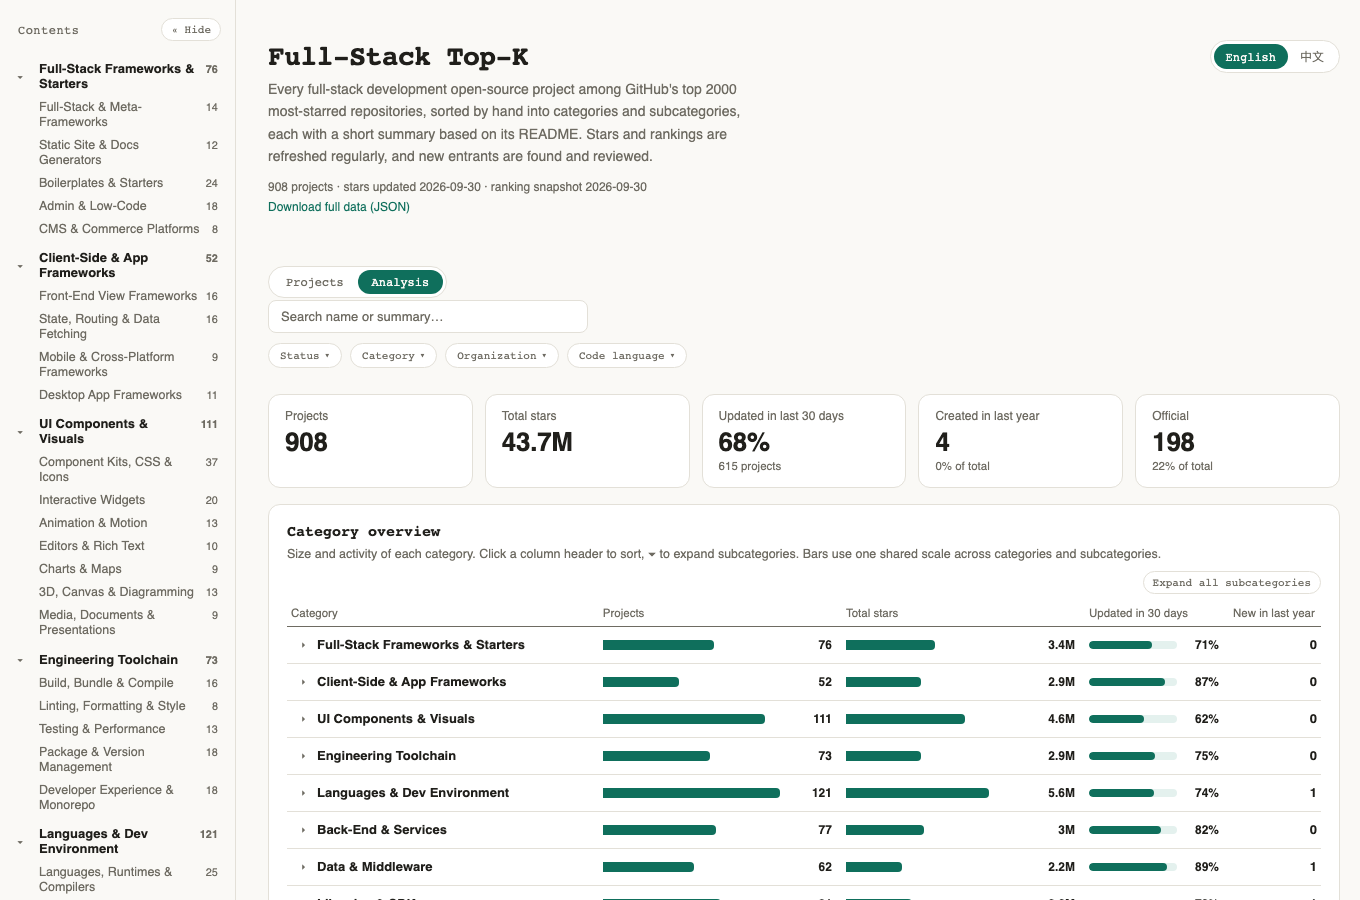
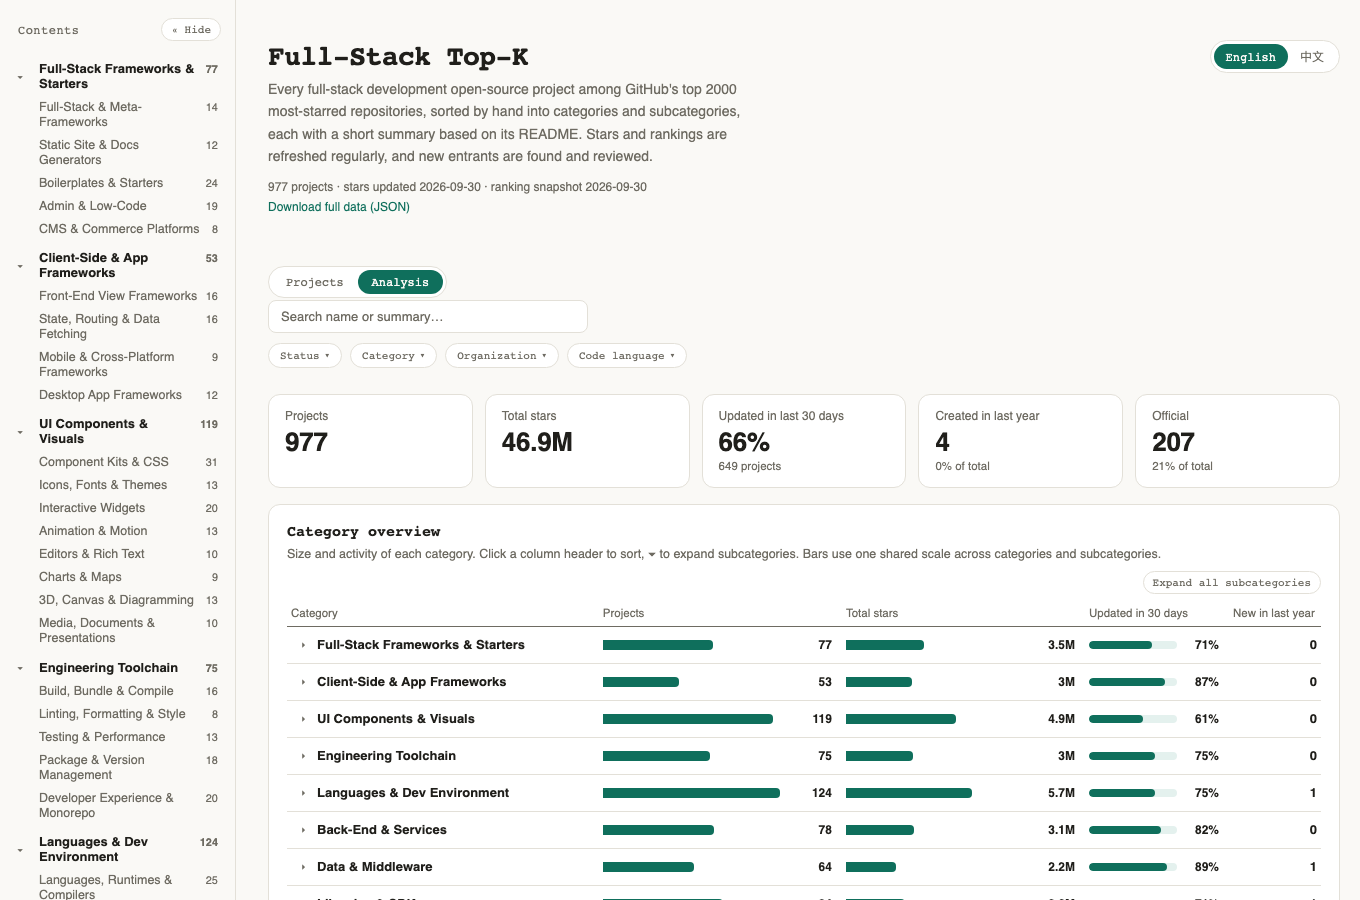
docs: update counts and screenshots for 977 projects and 60 subcategories

diff --git a/.claude/CLAUDE.md b/.claude/CLAUDE.md
@@ -39,7 +39,7 @@ python3 scripts/candidates.py           # 找出待审核的新仓库，写入 d
 
 **拿不准时偏保守，宁可漏收不要错收。**
 
-**分类体系**（2026-09-30 整体重构，共 11 个大类、58 个小类）：`fullstack` 全栈框架与应用骨架、`client` 客户端与应用框架、`ui` 界面组件与视觉、`toolchain` 工程化工具链（项目层面的构建 / 检查 / 测试 / 依赖）、`devtools` 编程语言与开发环境（语言、编辑器、命令行，开发者个人每天直接用的）、`backend` 后端与服务框架、`data` 数据与中间件、`libs` 通用库与 SDK（按语言生态）、`delivery` 部署与运维、`learning` 学习与教程、`guide` 面试、规范与清单。每个小类的边界写在 `taxonomy.json` 的 `def` 里，归类以那里为准。
+**分类体系**（2026-09-30 整体重构，共 11 个大类、60 个小类）：`fullstack` 全栈框架与应用骨架、`client` 客户端与应用框架、`ui` 界面组件与视觉、`toolchain` 工程化工具链（项目层面的构建 / 检查 / 测试 / 依赖）、`devtools` 编程语言与开发环境（语言、编辑器、命令行，开发者个人每天直接用的）、`backend` 后端与服务框架、`data` 数据与中间件、`libs` 通用库与 SDK（按语言生态）、`delivery` 部署与运维、`learning` 学习与教程、`guide` 面试、规范与清单。每个小类的边界写在 `taxonomy.json` 的 `def` 里，归类以那里为准。
 
 **分类体系不是定死的**：收录完成后，按实际项目的分布调整 `taxonomy.json`（合并过小的类、拆分过大的类、补上遗漏的类），并同步更新引用旧 key 的项目。调整时看整体分布，不要只给新项目补类；一个小类超过约 40 个就考虑拆，少于约 5 个就考虑并入相邻的类。
 

diff --git a/README.md b/README.md
@@ -15,7 +15,7 @@ Sister project: [AI Top-K](https://github.com/sigangluo/github-ai-topk), the sam
 
 ## What you can do
 
-- **Browse** hundreds of projects grouped into 11 categories and 58 subcategories, with a sidebar table of contents. Every subcategory has a written definition of what belongs in it.
+- **Browse** hundreds of projects grouped into 11 categories and 60 subcategories, with a sidebar table of contents. Every subcategory has a written definition of what belongs in it.
 - **See each project's real rank** among all GitHub repositories by stars, plus creation date, last push, main languages, and whether the repo is archived.
 - **Filter** by category tree, organization, code language, official vs community, or activity, and search names and summaries.
 - **Analyze** the landscape: category size and activity, new projects per quarter, language trends by creation year, official projects by company, and popular projects that went quiet.

diff --git a/README.zh-CN.md b/README.zh-CN.md
@@ -15,7 +15,7 @@ GitHub 全站 star 排名前 K（当前 K = 2000）的仓库里，所有与**全
 
 ## 能做什么
 
-- **浏览**：数百个项目按 11 个大类、58 个小类整理，带侧边目录；每个小类都写明了收录边界。
+- **浏览**：数百个项目按 11 个大类、60 个小类整理，带侧边目录；每个小类都写明了收录边界。
 - **看排名**：每个项目都标出它在 GitHub 全站按 star 的真实名次，以及创建时间、最近推送、主要语言、是否已归档。
 - **筛选**：按分类树、组织、编程语言、官方 / 社区、活跃度筛选，也可以搜索项目名和摘要。
 - **分析**：各分类的规模与活跃度、每季度新建项目数、按创建年份看语言变化、各公司官方出品、高 star 但已经沉寂的项目。
